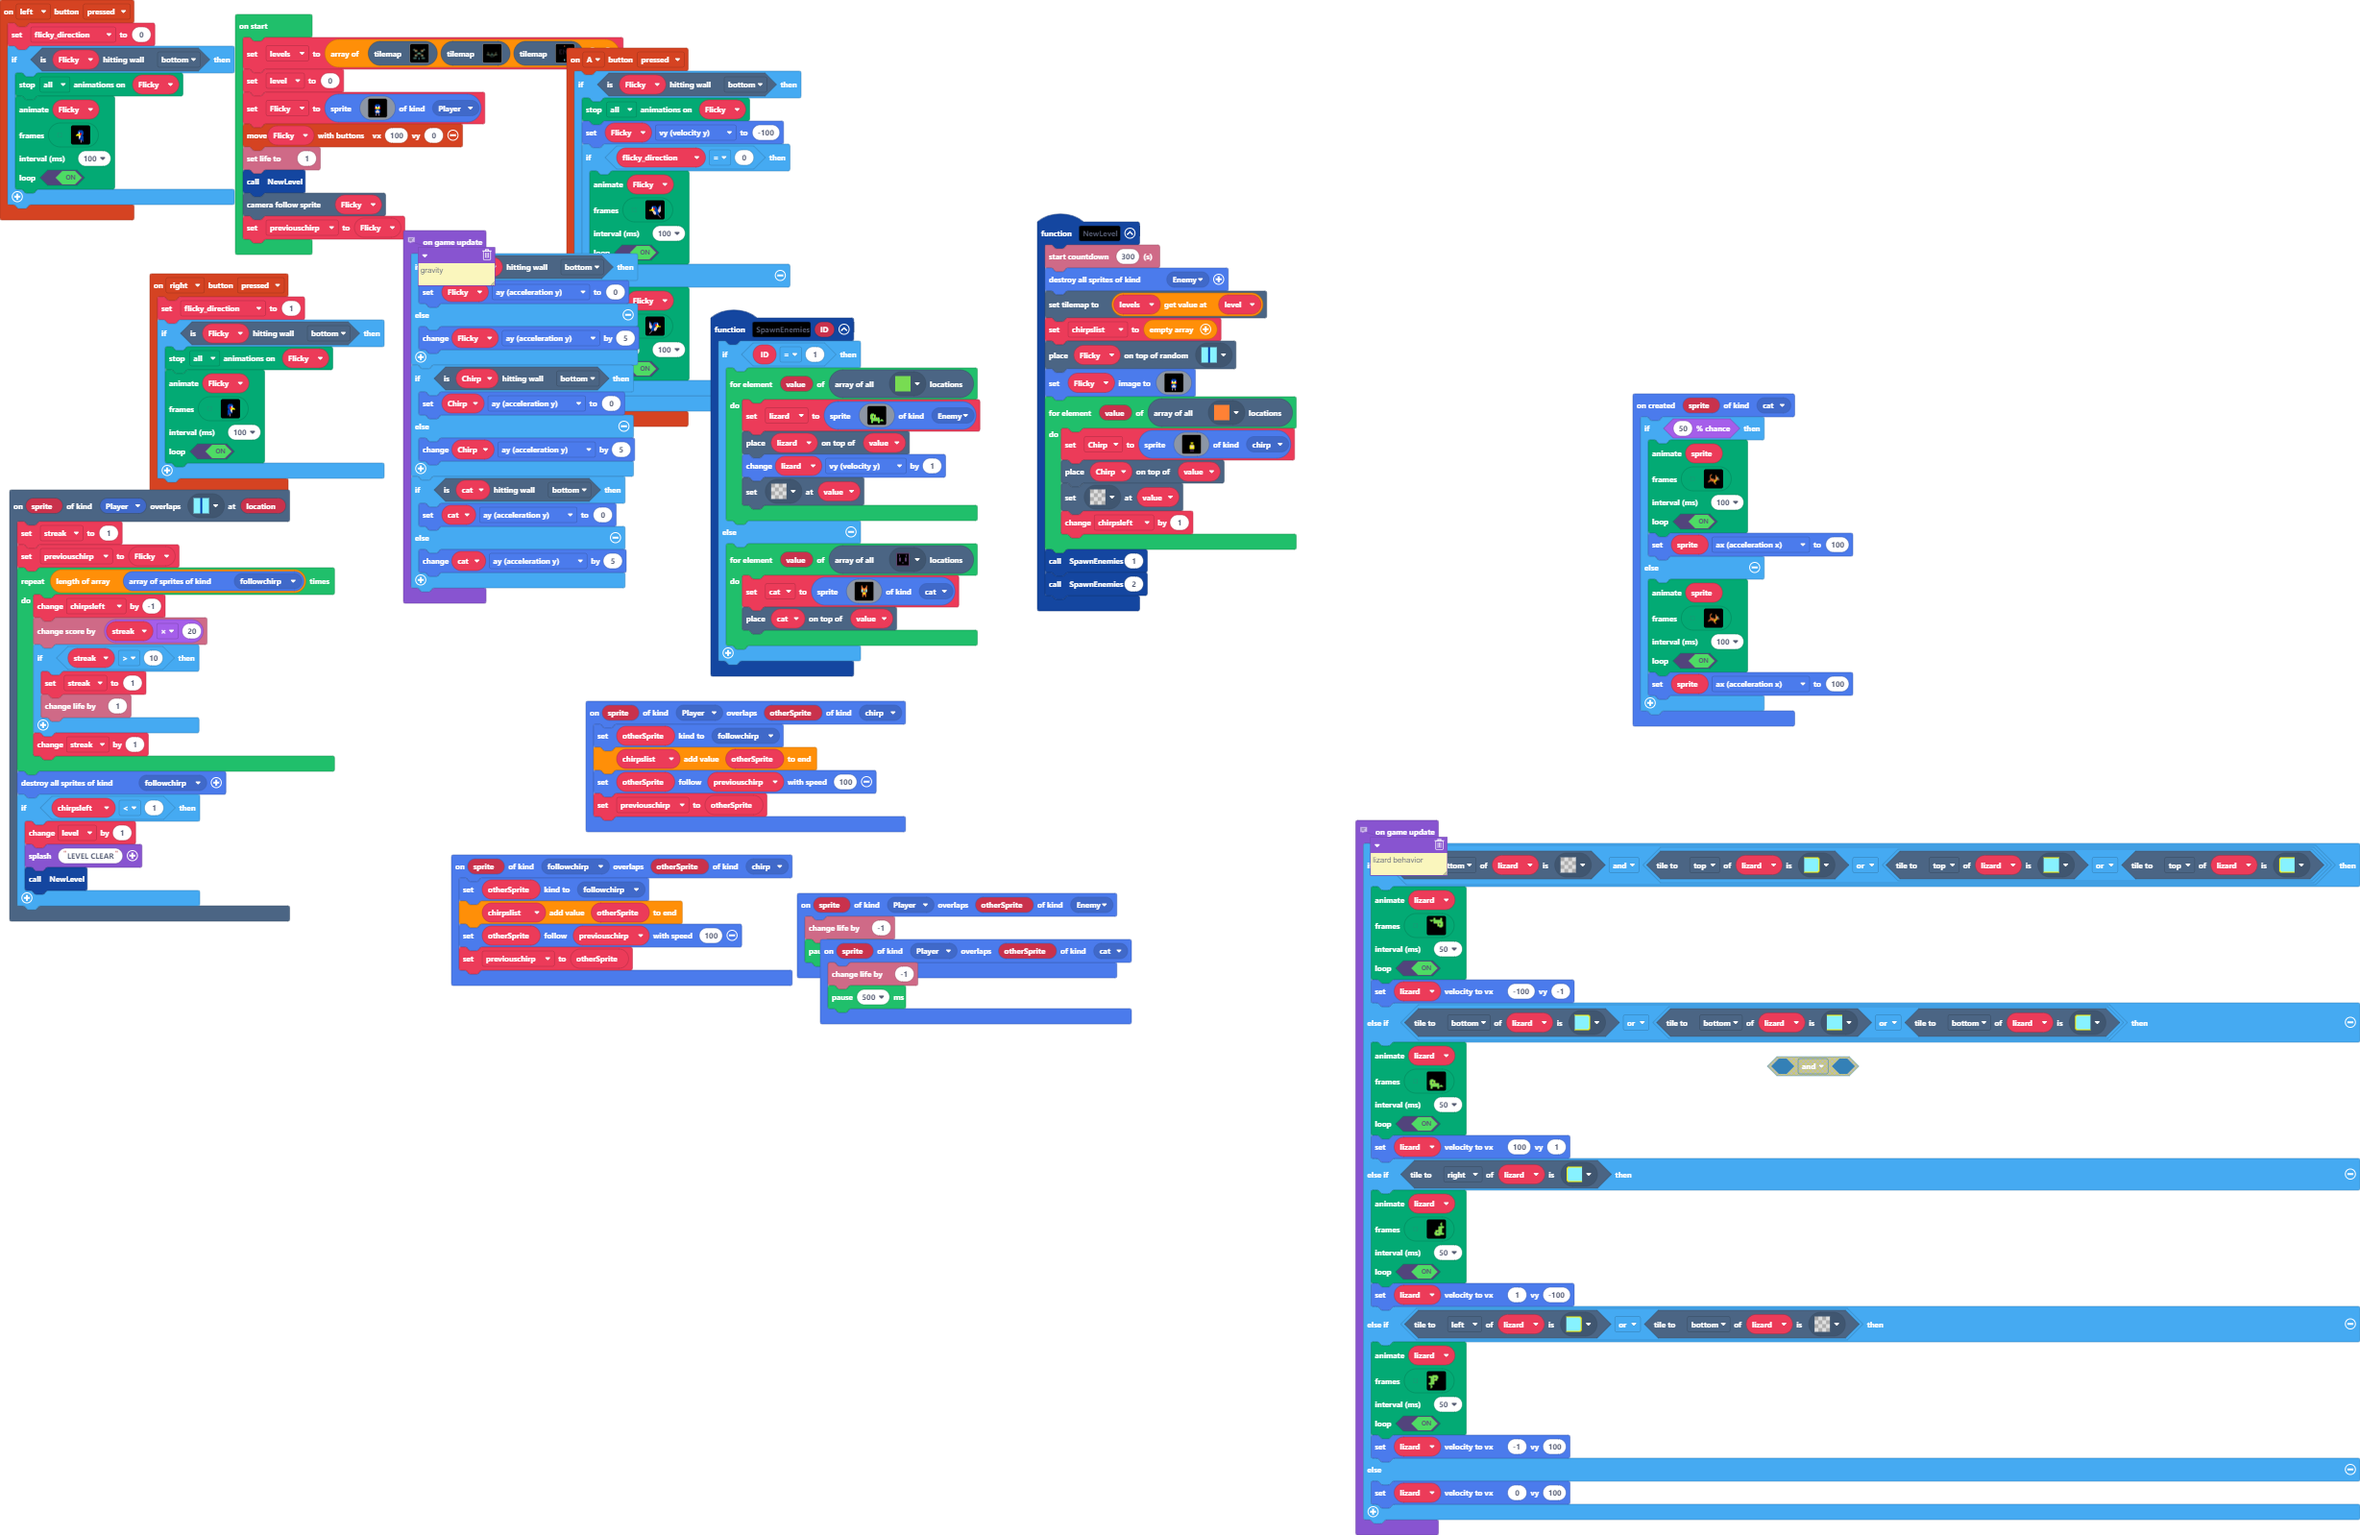
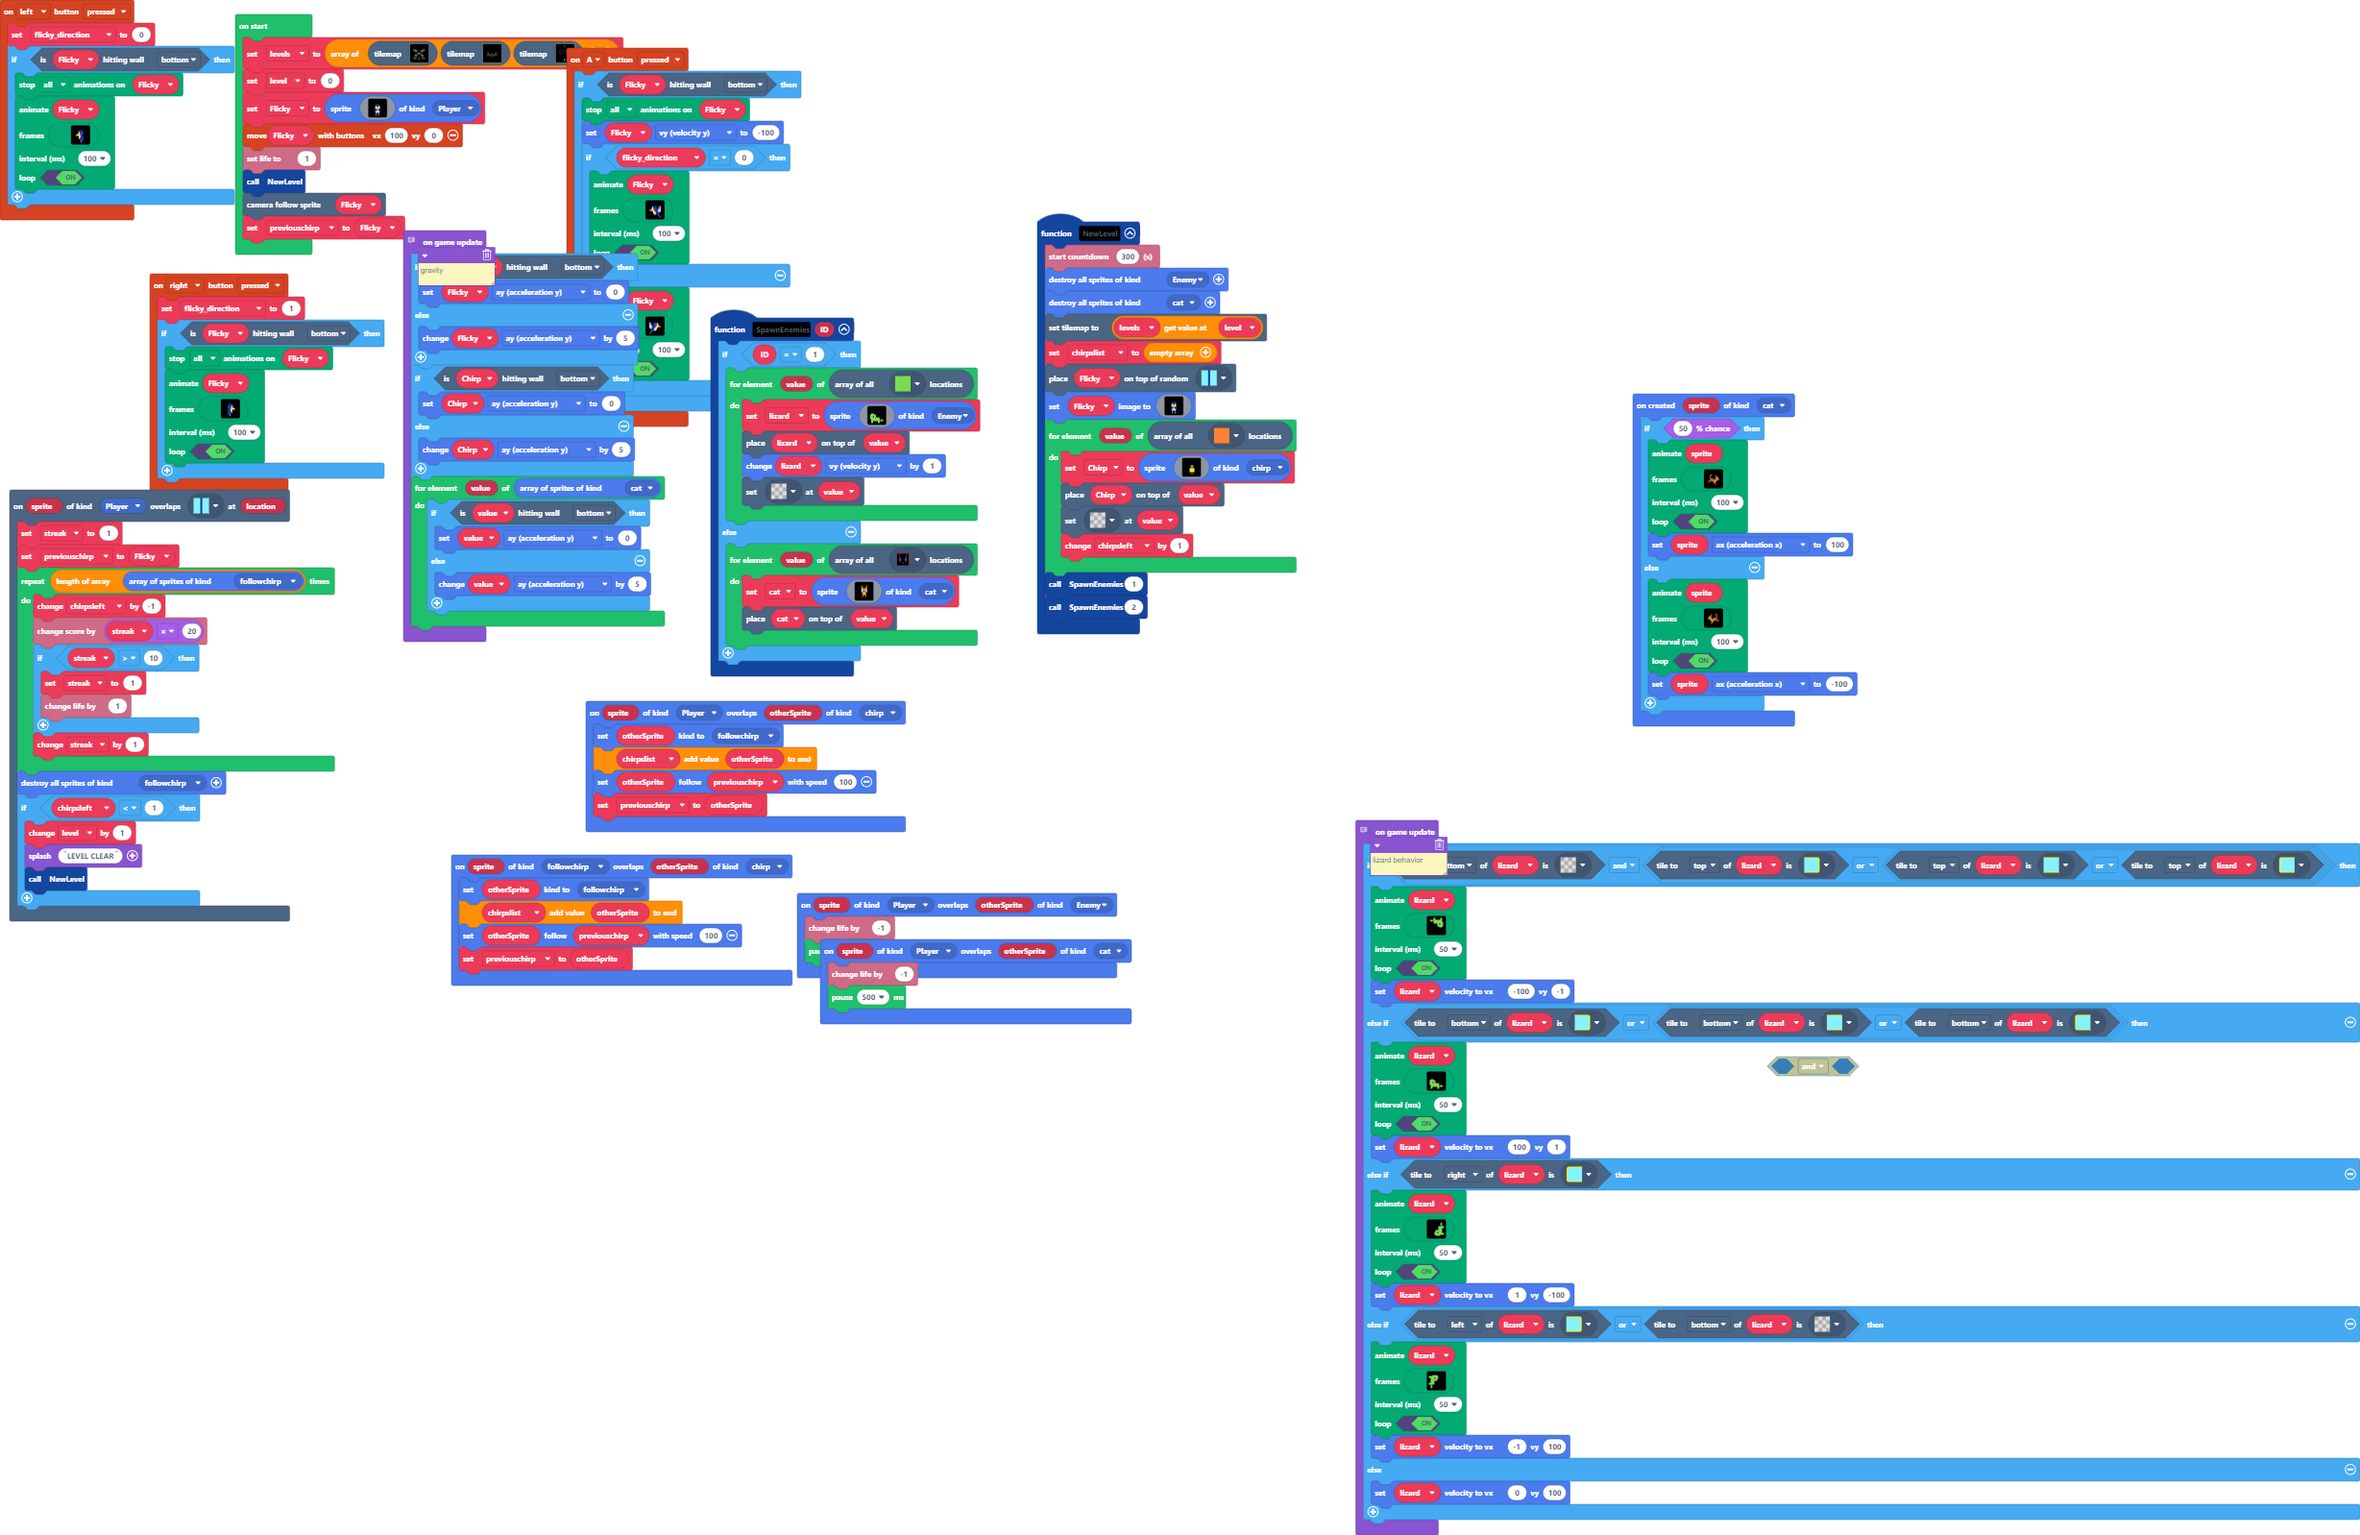
cat part 3

Changed region(s): [[0.433, 0.184, 0.5568, 0.4293], [0.1547, 0.3066, 0.2784, 0.4293]]

diff --git a/images.g.ts b/images.g.ts
@@ -203,59 +203,6 @@ f f 5 5 5 . . .
 . . . f . . . c 
 . . . f . . . c 
 `];
-            case "cat_runleft":
-            case "anim7":return [img`
-......................
-......................
-.............44.......
-.......4......44......
-.......4.......4......
-......44.......4......
-....7144.......4......
-....6144......44......
-...46144...4444.......
-..c4444444444444......
-......55544444444.....
-.......5554444.444....
-........554......44...
-.........44...........
-........44............
-.......44.............
-`, img`
-......................
-......................
-.......4.........4....
-.......4........44....
-......44........44....
-....7144........44....
-....6144.......44.....
-...46144.......44.....
-..c4444444444444......
-......544444444.......
-......5554444444......
-.......555444.44......
-.........44...44......
-.........44....44.....
-..........4.....4.....
-..........4...........
-`, img`
-......................
-.......4..............
-.......4..............
-......44..............
-....7144...........4..
-....6144...........4..
-...46144..........44..
-..c44444.........44...
-......5444.......4....
-......554444444444....
-......55544444444.....
-.......5544444444.....
-..........44..444.....
-..........44..44......
-...........4..44......
-...........4...4......
-`];
             case "flicky_jump":
             case "anim1":return [img`
 . . . . . . . . . . . . . . . . 
@@ -666,6 +613,59 @@ f f 5 5 5 . . .
 ......44..44..........
 ......44..4...........
 ......4...4...........
+`];
+            case "cat_runleft":
+            case "anim7":return [img`
+......................
+......................
+.............44.......
+.......4......44......
+.......4.......4......
+......44.......4......
+....7144.......4......
+....6144......44......
+...46144...4444.......
+..c4444444444444......
+......55544444444.....
+.......5554444.444....
+........554......44...
+.........44...........
+........44............
+.......44.............
+`, img`
+......................
+......................
+.......4.........4....
+.......4........44....
+......44........44....
+....7144........44....
+....6144.......44.....
+...46144.......44.....
+..c4444444444444......
+......544444444.......
+......5554444444......
+.......555444.44......
+.........44...44......
+.........44....44.....
+..........4.....4.....
+..........4...........
+`, img`
+......................
+.......4..............
+.......4..............
+......44..............
+....7144...........4..
+....6144...........4..
+...46144..........44..
+..c44444.........44...
+......5444.......4....
+......554444444444....
+......55544444444.....
+.......5544444444.....
+..........44..444.....
+..........44..44......
+...........4..44......
+...........4...4......
 `];
         }
         return null;

diff --git a/main.ts b/main.ts
@@ -55,11 +55,11 @@ sprites.onCreated(SpriteKind.cat, function (sprite) {
     } else {
         animation.runImageAnimation(
         sprite,
-        assets.animation`cat_runright`,
+        assets.animation`cat_runleft`,
         100,
         true
         )
-        sprite.ax = 100
+        sprite.ax = -100
     }
 })
 controller.A.onEvent(ControllerButtonEvent.Pressed, function () {
@@ -104,6 +104,7 @@ sprites.onOverlap(SpriteKind.Player, SpriteKind.chirp, function (sprite, otherSp
 function NewLevel () {
     info.startCountdown(300)
     sprites.destroyAllSpritesOfKind(SpriteKind.Enemy)
+    sprites.destroyAllSpritesOfKind(SpriteKind.cat)
     tiles.setCurrentTilemap(levels[level])
     chirpslist = []
     tiles.placeOnRandomTile(Flicky, assets.tile`doorsmiddle`)
@@ -174,10 +175,12 @@ game.onUpdate(function () {
     } else {
         Chirp.ay += 5
     }
-    if (cat.isHittingTile(CollisionDirection.Bottom)) {
-        cat.ay = 0
-    } else {
-        cat.ay += 5
+    for (let value of sprites.allOfKind(SpriteKind.cat)) {
+        if (value.isHittingTile(CollisionDirection.Bottom)) {
+            value.ay = 0
+        } else {
+            value.ay += 5
+        }
     }
 })
 // lizard behavior
